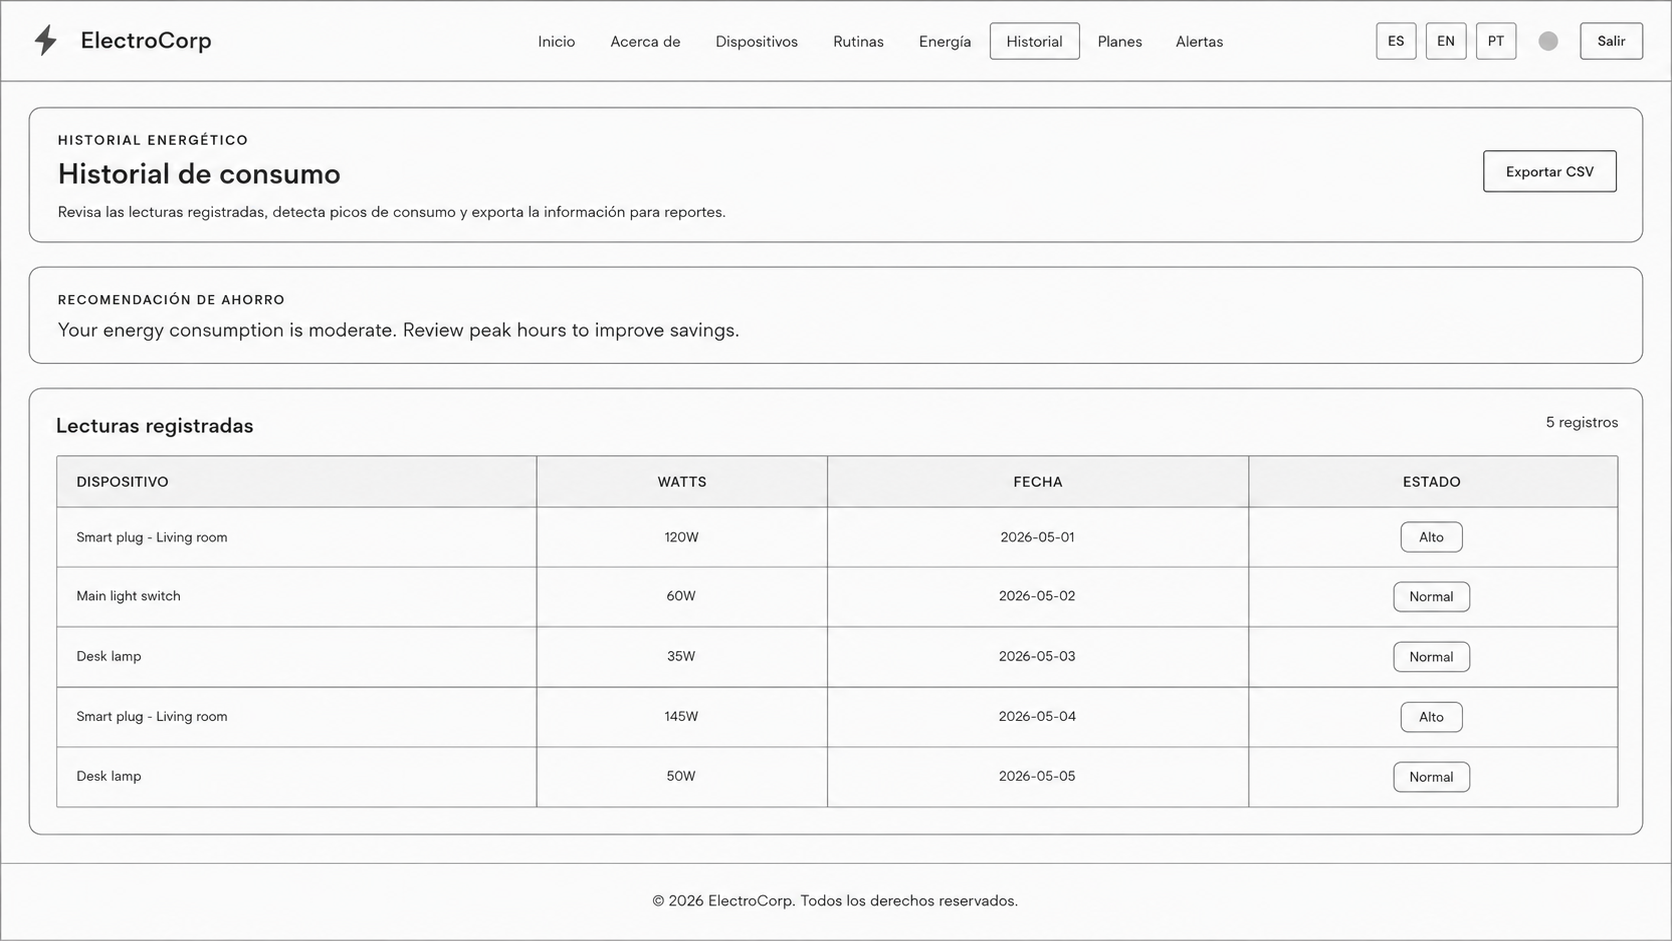
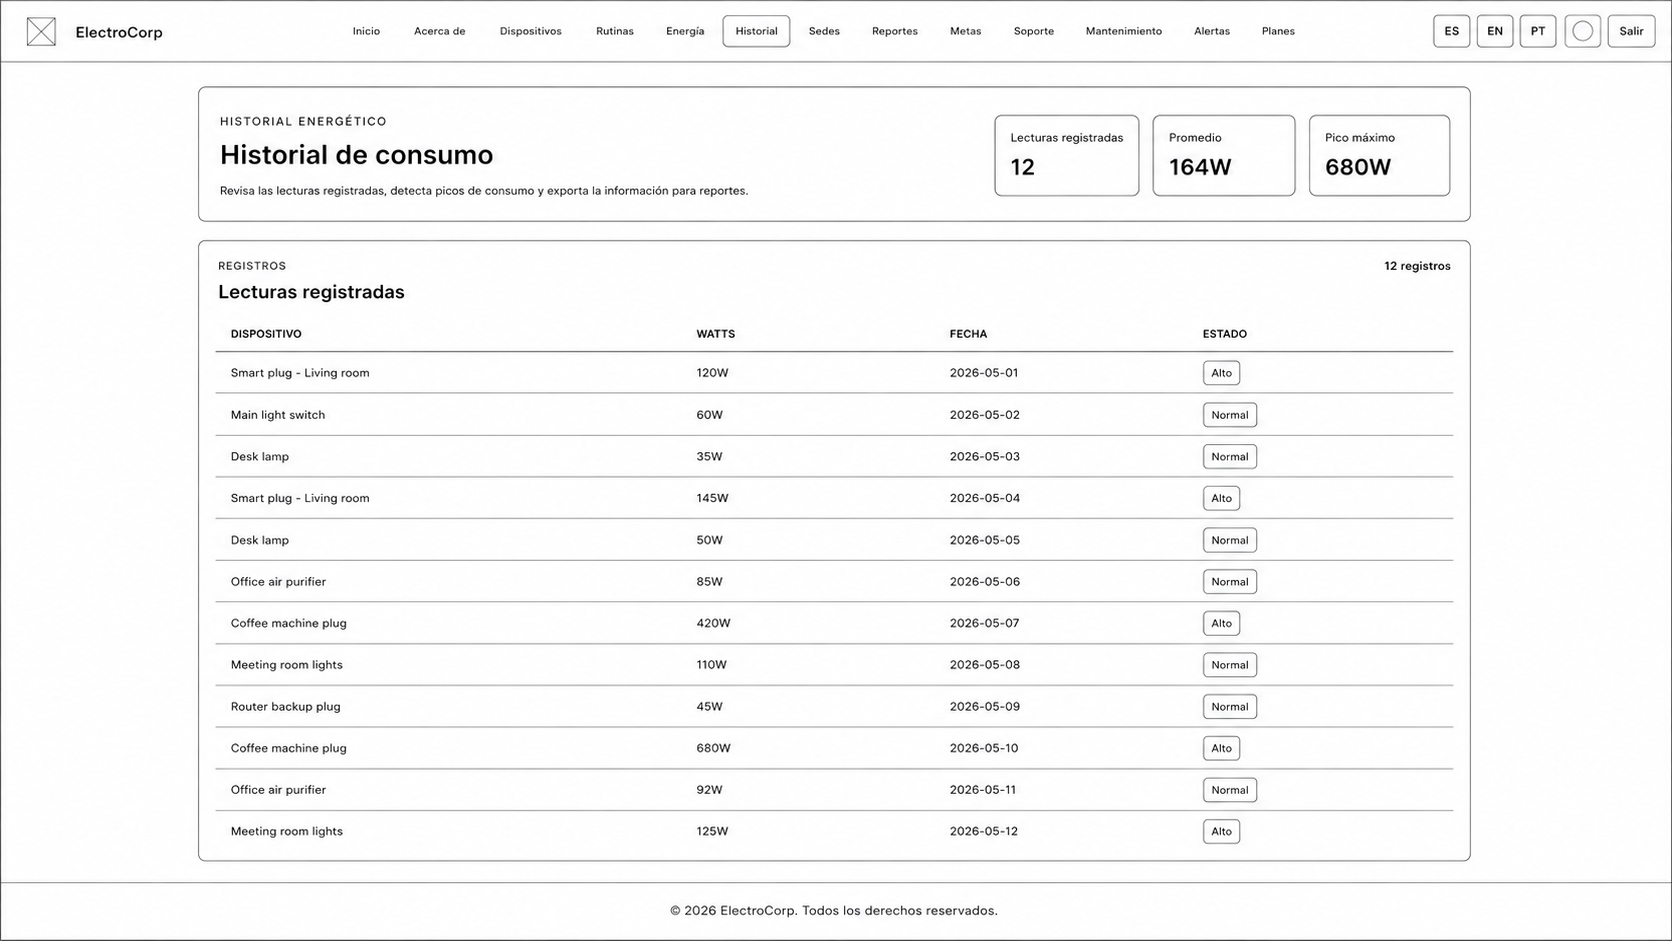
Webapp updated: Userflow, Wireflow, Mockups, Wireframes

diff --git a/README.md b/README.md
@@ -1342,7 +1342,7 @@ Este wireframe representa la pantalla de registro de usuarios. Presenta los camp
 ![Wireframe-Home](assets/Webapp-Wireframe-Home.png)
 
 **Home:**  
-Este wireframe corresponde al dashboard principal de ElectroCorp. En esta vista se organiza la información general del usuario, como dispositivos conectados, consumo actual, alertas pendientes y estado de suscripción. También se incluyen accesos rápidos hacia las funcionalidades principales de la aplicación.
+Este wireframe corresponde al dashboard principal de ElectroCorp. En esta vista se organiza la información general del usuario, como dispositivos conectados, rutinas activas, consumo actual, alertas pendientes y estado de suscripción. También se incluyen accesos rápidos hacia las funcionalidades principales de la aplicación.
 
 ---
 
@@ -1356,7 +1356,7 @@ Este wireframe muestra la sección informativa de la plataforma. Su objetivo es 
 ![Wireframe-Devices](assets/Webapp-Wireframe-Devices.png)
 
 **Devices:**  
-Este wireframe representa la vista de control de dispositivos inteligentes. Incluye un formulario para agregar nuevos dispositivos y un área destinada a listar los equipos registrados. Esta sección permite organizar la administración de enchufes, luces e interruptores inteligentes desde una sola interfaz.
+Este wireframe representa la vista de control de dispositivos inteligentes. Incluye un formulario para agregar nuevos dispositivos, tarjetas resumen y un área destinada a listar los equipos registrados. Esta sección permite organizar la administración de enchufes, luces e interruptores inteligentes desde una sola interfaz.
 
 ---
 
@@ -1370,7 +1370,7 @@ Este wireframe corresponde al módulo de rutinas automáticas. Presenta un formu
 ![Wireframe-Energy](assets/Webapp-Wireframe-Energy.png)
 
 **Energy:**  
-Este wireframe muestra la vista de monitoreo de consumo energético. Incluye indicadores clave como watts totales, promedio y pico máximo, además de filtros por fecha y un gráfico para visualizar el comportamiento del consumo. Esta sección facilita el análisis inicial de los datos energéticos.
+Este wireframe muestra la vista de monitoreo de consumo energético. Incluye indicadores clave como watts totales, promedio y pico máximo, además de filtros por fecha, recomendaciones de ahorro y un gráfico para visualizar el comportamiento del consumo. Esta sección facilita el análisis inicial de los datos energéticos.
 
 ---
 
@@ -1381,19 +1381,55 @@ Este wireframe representa el historial de consumo energético. La vista contiene
 
 ---
 
-![Wireframe-Plans](assets/Webapp-Wireframe-Plans.png)
+![Wireframe-Sites](assets/Webapp-Wireframe-Sites.png)
 
-**Plans:**  
-Este wireframe presenta la pantalla de planes de servicio. Se muestran diferentes opciones de suscripción con sus precios y características principales. Esta vista permite comparar planes y seleccionar una alternativa adecuada para las necesidades del usuario.
+**Sites:**  
+Este wireframe corresponde a la gestión de sedes y ambientes. Presenta indicadores sobre sedes, ambientes, asignaciones y cobertura, además de secciones para visualizar distribución de sedes, resumen operativo y tarjetas de ubicación. Esta vista permite organizar los espacios donde se encuentran instalados los dispositivos inteligentes.
+
+---
+
+![Wireframe-Reports](assets/Webapp-Wireframe-Reports.png)
+
+**Reports:**  
+Este wireframe muestra la sección de reportes de consumo. Incluye indicadores generales, comparación de reportes, periodo de mayor consumo y tarjetas de reportes generados. Su propósito es analizar la información energética registrada y mostrar recomendaciones basadas en el consumo.
+
+---
+
+![Wireframe-Goals](assets/Webapp-Wireframe-Goals.png)
+
+**Goals:**  
+Este wireframe representa la vista de metas energéticas. Incluye tarjetas de progreso, métricas generales y una lista de objetivos creados por el usuario. Esta sección permite definir metas de consumo y revisar el avance hacia el cumplimiento de los objetivos energéticos.
+
+---
+
+![Wireframe-Support](assets/Webapp-Wireframe-Support.png)
+
+**Support:**  
+Este wireframe corresponde al centro de soporte. Presenta indicadores de tickets, casos abiertos, casos críticos y tasa de resolución, además de una sección para visualizar el ticket más urgente y la lista de solicitudes registradas. Esta vista permite gestionar incidencias o problemas relacionados con el uso de la plataforma.
+
+---
+
+![Wireframe-Maintenance](assets/Webapp-Wireframe-Maintenance.png)
+
+**Maintenance:**  
+Este wireframe representa la sección de mantenimiento técnico. Incluye métricas sobre mantenimientos pendientes y completados, el mantenimiento más cercano, estado operativo y una lista de tareas programadas. Esta vista permite planificar revisiones preventivas o correctivas de los dispositivos inteligentes.
 
 ---
 
 ![Wireframe-Alerts](assets/Webapp-Wireframe-Alerts.png)
 
 **Alerts:**  
-Este wireframe corresponde al centro de alertas de ElectroCorp. Incluye un resumen de alertas no leídas, un formulario para crear nuevas notificaciones y una lista de alertas relacionadas con consumo elevado, sugerencias de automatización y reportes mensuales.
+Este wireframe corresponde al centro de alertas de ElectroCorp. Incluye un resumen de alertas no leídas, formularios para crear alertas y reglas, preferencias de notificación y una lista de alertas relacionadas con consumo elevado, sugerencias de automatización y eventos del sistema.
 
 ---
+
+![Wireframe-Plans](assets/Webapp-Wireframe-Plans.png)
+
+**Plans:**  
+Este wireframe presenta la pantalla de planes de servicio. Se muestran diferentes opciones de suscripción con sus precios y características principales. Esta vista permite comparar planes, visualizar la suscripción activa y revisar el resumen de facturación del usuario.
+
+---
+
 ### 4.4.2. Web Applications Wireflow Diagrams
 
 El siguiente wireflow representa el flujo de navegación principal de la aplicación web de **ElectroCorp**. Este diagrama permite visualizar cómo el usuario se desplaza entre las pantallas principales del sistema, partiendo desde el proceso de autenticación hasta el acceso a los módulos funcionales de la plataforma.
@@ -1407,7 +1443,7 @@ Desde el dashboard principal, el usuario puede acceder a las secciones de **Abou
 
 ### 4.4.3. Web Applications Mock-ups
 
-Los siguientes mock-ups representan la versión de mayor fidelidad de las interfaces web de **ElectroCorp**. A diferencia de los wireframes, estos diseños incorporan colores, tipografía, estilos visuales y una distribución más cercana a la implementación final desarrollada en la aplicación.
+Los siguientes mock-ups representan la versión de mayor fidelidad de las interfaces web de **ElectroCorp**. A diferencia de los wireframes, estos diseños incorporan colores, tipografía, estilos visuales, navegación superior, botones, tarjetas y una distribución más cercana a la implementación final desarrollada en la aplicación.
 
 ---
 
@@ -1428,7 +1464,7 @@ Este mock-up representa la pantalla de registro final. La interfaz permite crear
 ![Mockup-Home](assets/Webapp-Mockup-Home.png)
 
 **Home:**  
-Este mock-up presenta el dashboard principal de la aplicación. Se muestran tarjetas resumen sobre dispositivos conectados, consumo actual, alertas pendientes y suscripción. También incluye accesos rápidos hacia módulos importantes como control de dispositivos, consumo energético, historial, alertas y planes.
+Este mock-up presenta el dashboard principal de la aplicación. Se muestran tarjetas resumen sobre dispositivos conectados, rutinas activas, consumo actual, alertas pendientes y uso del plan. También incluye accesos rápidos hacia módulos importantes como control de dispositivos, consumo energético, historial, alertas y planes.
 
 ---
 
@@ -1456,7 +1492,7 @@ Este mock-up representa la vista de rutinas automáticas. El usuario puede crear
 ![Mockup-Energy](assets/Webapp-Mockup-Energy.png)
 
 **Energy:**  
-Este mock-up corresponde al módulo de monitoreo energético. Presenta indicadores como watts totales, promedio y pico máximo. También incluye filtros por fecha y un gráfico de barras que permite analizar visualmente el historial de consumo energético.
+Este mock-up corresponde al módulo de monitoreo energético. Presenta indicadores como watts totales, promedio y pico máximo. También incluye filtros por fecha, una recomendación de ahorro y un gráfico de barras que permite analizar visualmente el historial de consumo energético.
 
 ---
 
@@ -1467,35 +1503,74 @@ Este mock-up muestra la vista de historial de consumo. La pantalla presenta una 
 
 ---
 
-![Mockup-Plans](assets/Webapp-Mockup-Plans.png)
+![Mockup-Sites](assets/Webapp-Mockup-Sites.png)
 
-**Plans:**  
-Este mock-up representa la vista de planes de servicio. Se presentan tres opciones de suscripción con sus respectivos precios y características. Esta sección permite comparar los planes disponibles y seleccionar una opción acorde al uso del sistema.
+**Sites:**  
+Este mock-up representa el módulo de gestión de sedes y ambientes. Muestra indicadores sobre sedes, ambientes y asignaciones, además de una distribución por tipo de sede y tarjetas con información de cada ubicación. Esta vista permite supervisar la organización física de los dispositivos dentro de la plataforma.
+
+---
+
+![Mockup-Reports](assets/Webapp-Mockup-Reports.png)
+
+**Reports:**  
+Este mock-up muestra la vista de reportes de consumo. Presenta indicadores de reportes generados, watts totales, pico máximo, promedio por reporte y reportes críticos. Además, incluye una comparación visual de reportes y tarjetas con recomendaciones relacionadas al consumo energético.
+
+---
+
+![Mockup-Goals](assets/Webapp-Mockup-Goals.png)
+
+**Goals:**  
+Este mock-up corresponde a la sección de metas energéticas. Permite visualizar el número de metas creadas, metas activas, completadas, fallidas y el progreso promedio. También muestra metas individuales con barras de progreso y métricas asociadas al objetivo energético.
+
+---
+
+![Mockup-Support](assets/Webapp-Mockup-Support.png)
+
+**Support:**  
+Este mock-up muestra el centro de soporte de la aplicación. Incluye métricas sobre tickets, casos abiertos, casos críticos y resolución, además de una sección para destacar el ticket más urgente. También permite visualizar solicitudes registradas con su estado y prioridad.
+
+---
+
+![Mockup-Maintenance](assets/Webapp-Mockup-Maintenance.png)
+
+**Maintenance:**  
+Este mock-up representa la vista de mantenimiento técnico. Permite revisar mantenimientos pendientes, completados y tareas programadas. También destaca el mantenimiento más cercano y muestra información asociada al dispositivo, fecha programada y estado del servicio.
 
 ---
 
 ![Mockup-Alerts](assets/Webapp-Mockup-Alerts.png)
 
 **Alerts:**  
-Este mock-up muestra el centro de alertas de la aplicación. Incluye un contador de alertas sin leer, un formulario para crear nuevas alertas y una lista de notificaciones clasificadas por nivel. Esta sección permite al usuario supervisar eventos importantes relacionados con consumo energético y automatización.
+Este mock-up muestra el centro de alertas de la aplicación. Incluye un contador de alertas sin leer, formularios para crear alertas y reglas de alerta, preferencias de notificación y una lista de eventos clasificados por nivel. Esta sección permite al usuario supervisar eventos importantes relacionados con consumo energético y automatización.
+
+---
+
+![Mockup-Plans](assets/Webapp-Mockup-Plans.png)
+
+**Plans:**  
+Este mock-up representa la vista de planes de servicio. Se presentan tres opciones de suscripción con sus respectivos precios y características. También se muestra la suscripción activa y un resumen de facturas, permitiendo al usuario comparar planes disponibles y gestionar su estado de facturación.
 
 ---
 
 
 ### 4.4.4. Web Applications User Flow Diagrams
 
-El siguiente diagrama de flujo de usuario representa el recorrido principal que realiza una persona al interactuar con la aplicación web de **ElectroCorp**. Este flujo inicia cuando el usuario accede a la plataforma y debe decidir si ya cuenta con una cuenta registrada. En caso no la tenga, puede dirigirse al proceso de registro para crear una nueva cuenta; si ya posee credenciales, continúa hacia la pantalla de inicio de sesión.
+El siguiente diagrama de flujo de usuario representa el recorrido principal que realiza una persona al interactuar con la aplicación web de **ElectroCorp**. Este flujo contempla el acceso desde la **Landing Page** o directamente desde la **Single Page Application (SPA)**, el proceso de autenticación, el registro de usuarios, la selección de planes, la navegación por los módulos principales y la gestión de funcionalidades como dispositivos, rutinas, consumo energético, reportes, metas, soporte, mantenimiento, alertas y facturación.
 
 ![Webapp-Userflow](assets/Webapp-Userflow.png)
 
 **Web Application User Flow:**  
-El flujo principal comienza con el acceso del usuario a la aplicación web. Luego, el sistema evalúa si el usuario cuenta con una cuenta existente. Si no tiene una cuenta, se dirige al módulo de **Register**, donde puede crearla y posteriormente iniciar sesión. Si ya posee una cuenta, accede directamente al módulo de **Login**.
+El flujo principal inicia cuando el usuario accede a ElectroCorp. Si ingresa desde la **Landing Page**, puede revisar información pública sobre la plataforma, conocer sus beneficios y seleccionar un plan. En caso seleccione un plan desde la landing, se recopilan los datos simulados de pago y se redirige al usuario hacia la SPA para completar su registro. Si el usuario accede directamente a la aplicación, puede iniciar sesión o crear una nueva cuenta.
 
-Después del inicio de sesión, se valida si las credenciales ingresadas son correctas. Si los datos no son válidos, el sistema muestra un mensaje de error y permite que el usuario vuelva a intentar el acceso. Si las credenciales son correctas, el usuario ingresa al **Home Dashboard**, que funciona como el punto central de navegación de la plataforma.
+Luego, el sistema evalúa si el usuario ya posee una cuenta registrada. Si no tiene una cuenta, se dirige al módulo de **Register**, donde ingresa su nombre completo, correo electrónico y contraseña. Si el registro proviene de una selección previa de plan desde la landing, el sistema asocia el plan seleccionado al nuevo usuario, registra el pago simulado y crea una suscripción activa. En caso contrario, el usuario se registra sin una suscripción activa. Si el usuario ya posee credenciales, accede al módulo de **Login**, donde ingresa su correo y contraseña.
 
-Desde el dashboard, el usuario puede acceder a los principales módulos funcionales de ElectroCorp: **About**, **Devices**, **Routines**, **Energy**, **History**, **Plans** y **Alerts**. Cada módulo permite realizar acciones específicas, como gestionar dispositivos, crear rutinas automáticas, visualizar métricas de consumo, revisar historial energético, comparar planes de servicio y atender alertas del sistema.
+Después del inicio de sesión, el sistema valida las credenciales ingresadas. Si los datos no son correctos, se muestra un mensaje de error y el usuario puede intentar nuevamente. Si las credenciales son válidas, el usuario ingresa al **Home Dashboard**, que funciona como el punto central de navegación de la plataforma. Desde esta vista se muestran indicadores generales como dispositivos registrados, rutinas activas, consumo actual, alertas pendientes y estado del plan.
 
-Finalmente, el flujo contempla la acción de **Logout**, mediante la cual el usuario puede cerrar sesión de forma segura. De esta manera, el diagrama permite comprender tanto el recorrido principal como los escenarios alternativos de autenticación, navegación y salida de la aplicación.
+A partir del dashboard, el usuario puede navegar hacia los principales módulos funcionales de ElectroCorp. En **Devices**, puede registrar dispositivos inteligentes, revisar su estado y encenderlos o apagarlos. En **Routines**, puede crear automatizaciones asociadas a dispositivos y horarios específicos. En **Energy**, puede visualizar métricas de consumo, filtrar lecturas por fechas, revisar recomendaciones y exportar información. En **History**, puede consultar el historial de lecturas energéticas registradas.
+
+El flujo también contempla la gestión de espacios mediante **Sites**, donde el usuario puede revisar sedes, ambientes y asignaciones de dispositivos. En **Reports**, puede generar reportes de consumo a partir de lecturas energéticas, siempre usando rangos de fechas válidos. En **Goals**, puede crear metas energéticas y monitorear su progreso. En **Support**, puede registrar tickets de ayuda y revisar casos críticos. En **Maintenance**, puede programar mantenimientos técnicos para los dispositivos. En **Alerts**, puede crear alertas, configurar reglas, actualizar preferencias y marcar notificaciones como leídas.
+
+Finalmente, el módulo de **Plans** permite visualizar los planes disponibles, revisar la suscripción activa, seleccionar un nuevo plan, procesar un pago simulado, cancelar una suscripción y consultar el resumen de facturación. El flujo termina cuando el usuario decide cerrar sesión mediante la opción **Logout**, lo que elimina la sesión local y redirige nuevamente al login. De esta manera, el diagrama permite comprender el recorrido completo del usuario dentro de la aplicación, desde el acceso inicial hasta la navegación operativa y la salida segura del sistema.
 
 ---
 
